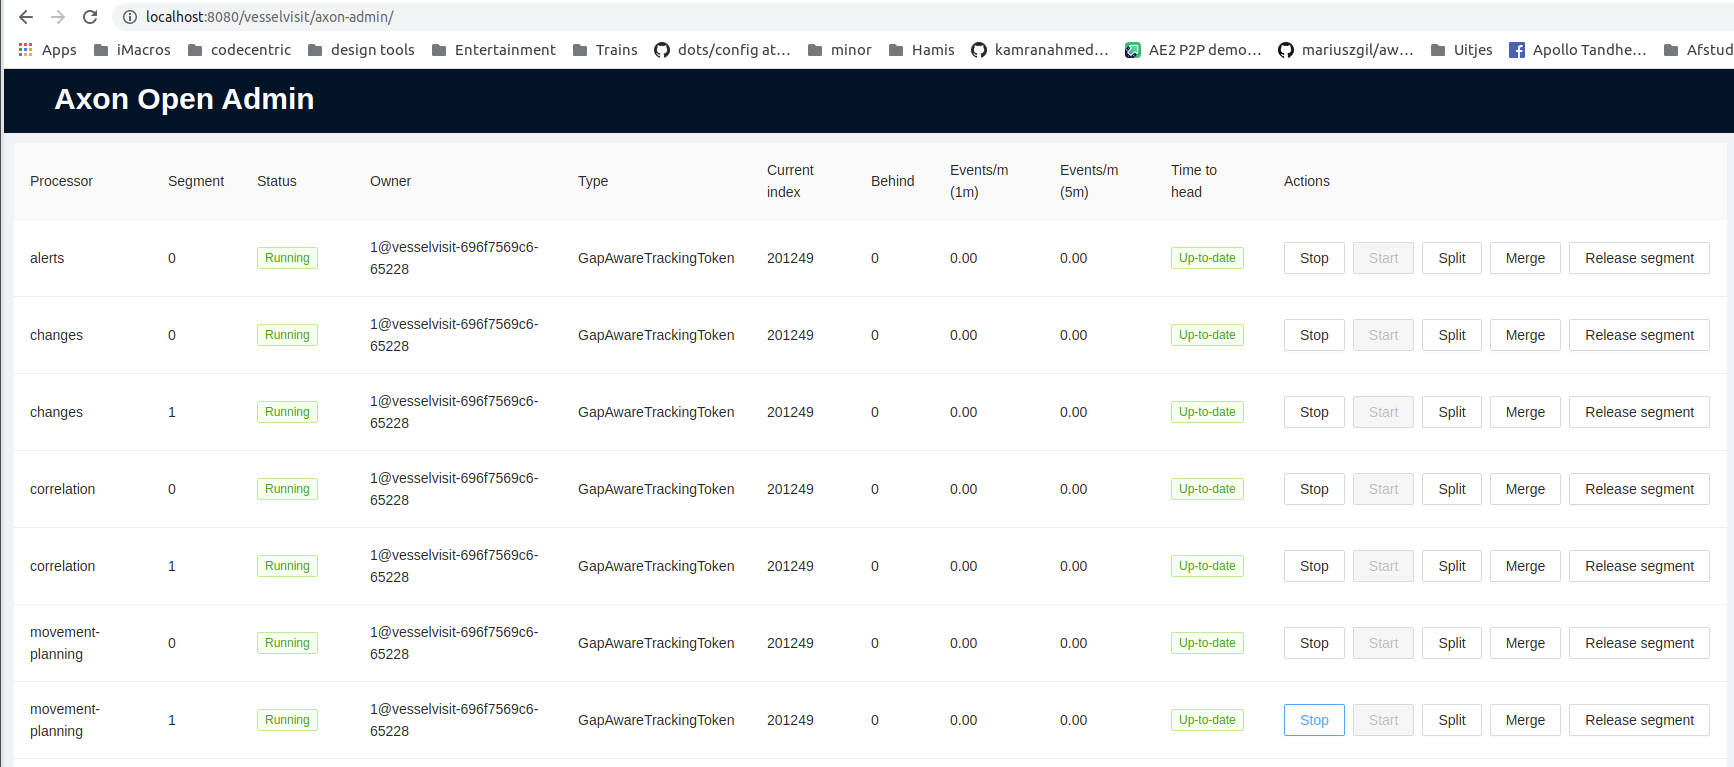
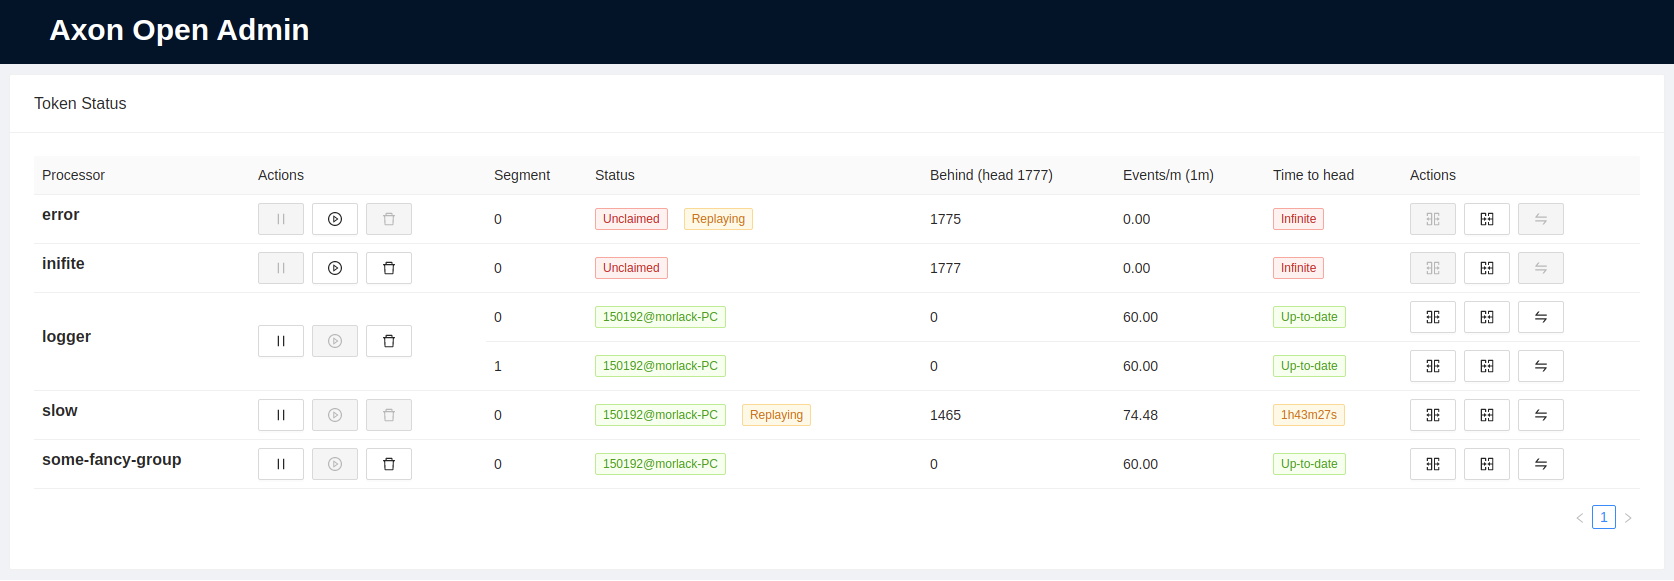
Renamed service module to starter, improved interface interaction

diff --git a/frontend/src/components/TokenOverview.tsx b/frontend/src/components/TokenOverview.tsx
@@ -1,0 +1,83 @@
+import {Card, Space, Table, Tag, Typography} from "antd";
+import React, {useEffect, useState} from "react";
+import {TimeToHeadTag} from "./TimeToHeadTag";
+import {ProcessorInformation} from "../models";
+import {TokenOverviewData} from "./TokenOverviewData";
+import {SegmentActions} from "./actions/SegmentActions";
+import {contextPath} from "../context";
+import {ProcessorActions} from "./actions/ProcesorActions";
+
+function mapProcessorInformationToDataSource(processorInformation: ProcessorInformation | null): TokenOverviewData[] | undefined {
+    return processorInformation?.processors?.flatMap(p => {
+        return p.segments.map((segment, index, all) => {
+            return {
+                key: p.name + segment.segment,
+                rowSpan: index === 0 ? all.length : 0,
+                processorName: p.name,
+                currentIndex: segment.currentIndex,
+                behind: segment.behind,
+                segment: segment.segment,
+                owner: segment.owner,
+                tokenType: segment.tokenType,
+                replaying: p.segments.filter(s => s.replaying).length > 0,
+                processorHasUnclaimed: p.segments.filter(s => !s.owner).length > 0,
+                secondsToHead: ((segment.statistics?.seconds300?.minutesToHead ?? 0) * 60).toFixed(2),
+                positionRate1m: segment.statistics?.seconds60?.positionRate?.toFixed(2),
+                positionRate5m: segment.statistics?.seconds10.positionRate?.toFixed(2),
+            }
+        })
+    });
+}
+
+function TokenOverview() {
+    const [processorInformation, setInfo] = useState(null as ProcessorInformation | null)
+
+    useEffect(() => {
+        const interval = setInterval(async () => {
+            const result = await fetch(contextPath + "/tokens")
+            if (result.ok) {
+                setInfo(await result.json())
+            } else {
+                console.log("Error!") // TODO
+            }
+        }, 1000)
+
+        return () => clearInterval(interval)
+    }, [])
+
+    const dataSource = mapProcessorInformationToDataSource(processorInformation);
+    console.log(dataSource)
+    return (
+        <Card title={"Token Status"}>
+            <Table loading={!processorInformation} dataSource={dataSource} pagination={{pageSize: 20}} size={"small"}>
+                <Table.Column title="Processor" key="processorName"
+                              render={row => ({children: <ProcessorTitle row={row}/>, props: {rowSpan: row.rowSpan}})}/>
+                <Table.Column title="Actions" key="processorActions" render={row => ({children: <ProcessorActions row={row}/>, props: {rowSpan: row.rowSpan}})}/>
+                <Table.Column title="Segment" key="segment" dataIndex="segment"/>
+                <Table.Column title="Status" key="status" render={row => <StatusRow row={row}/>}/>
+                <Table.Column title={"Behind (head " + processorInformation?.headIndex + ")"} key="behind" dataIndex="behind"/>
+                <Table.Column title="Events/m (1m)" key="positionRate1m" dataIndex="positionRate1m"/>
+                <Table.Column title="Time to head" key="timeToHead"
+                              render={row => <TimeToHeadTag behind={row.behind} secondsToHead={row.secondsToHead} replaying={row.replaying}/>}/>
+                <Table.Column title="Actions" key="actions"
+                              render={row => <SegmentActions row={row}/>}/>
+            </Table>
+        </Card>
+    );
+}
+
+function StatusRow({row}: {row: TokenOverviewData}) {
+    return <Space>
+        {row?.owner && <Tag color="green">{row.owner}</Tag>}
+        {!row?.owner && <Tag color="red">Unclaimed</Tag>}
+        {row?.replaying && <Tag color="orange" style={{float: 'right'}}>Replaying</Tag>}
+    </Space>
+}
+
+function ProcessorTitle({row} : {row: TokenOverviewData}) {
+    return <Space>
+        <Typography.Title level={5}>{row.processorName}</Typography.Title>
+    </Space>
+}
+
+export default TokenOverview;

diff --git a/frontend/src/components/actions/ReleaseAction.tsx b/frontend/src/components/actions/ReleaseAction.tsx
@@ -1,4 +1,4 @@
-import {ProcessorRowData} from "../ProcessorRowData";
+import {TokenOverviewData} from "../TokenOverviewData";
 import React, {useCallback, useState} from "react";
 import {Button, Popover} from "antd";
 import {contextPath} from "../../context";
@@ -15,7 +15,7 @@ async function releaseSegment(name: string, segment: number, attempt = 1) {
 }
 
 
-export function ReleaseAction({row}: { row: ProcessorRowData }) {
+export function ReleaseAction({row}: { row: TokenOverviewData }) {
     const [loading, setLoading] = useState(false)
 
     const onReleaseAction = useCallback(async () => {
@@ -24,10 +24,12 @@ export function ReleaseAction({row}: { row: ProcessorRowData }) {
         setLoading(false)
     }, [row.processorName, row.segment])
 
-    return <Popover content="Releases this segment on the running node so another node can pick it up" placement={"left"}><Button type="default" loading={loading}
-                                                                                                                                onClick={onReleaseAction}
-                                                                                                                                disabled={row.owner == null}>
-        <SwapOutlined />
-    </Button>
+    return <Popover content="Releases this segment on the running node so another node can pick it up"
+                    placement={"bottom"}>
+        <Button type="default" loading={loading}
+                onClick={onReleaseAction}
+                disabled={row.owner == null}>
+            <SwapOutlined/>
+        </Button>
     </Popover>
 }

diff --git a/frontend/src/components/actions/ReplayAction.tsx b/frontend/src/components/actions/ReplayAction.tsx
@@ -1,0 +1,38 @@
+import {TokenOverviewData} from "../TokenOverviewData";
+import React, {useCallback, useState} from "react";
+import {Button, Popconfirm, Popover} from "antd";
+import {contextPath} from "../../context";
+import {DeleteOutlined} from "@ant-design/icons";
+
+async function replayProcessor(name: string, attempt = 1) {
+    const result = await fetch(`${contextPath}/processor/${name}/reset`, {method: 'POST'})
+    if (!result.ok) {
+        if (attempt > 5) {
+            return;
+        }
+        await replayProcessor(name, attempt + 1)
+    }
+}
+
+
+export function ReplayAction({row}: { row: TokenOverviewData }) {
+    const [loading, setLoading] = useState(false)
+
+    const onStopAction = useCallback(async () => {
+        setLoading(true)
+        await replayProcessor(row.processorName, row.segment)
+        setLoading(false)
+    }, [row.processorName, row.segment])
+
+    return <Popover content={<p>Starts a replay of this processor. Will reset the tokens. First stop the processor on all nodes before taking this action</p>} placement={"bottom"}> <Popconfirm
+        title={`Are you sure you want to replay ${row.processorName}?`}
+        onConfirm={onStopAction}
+        onCancel={onStopAction}
+        okText="Yes"
+        cancelText="No"
+    ><Button type="default" loading={loading} disabled={row.owner != null || row.replaying}>
+        <DeleteOutlined/>
+    </Button>
+    </Popconfirm>
+    </Popover>
+}

diff --git a/frontend/src/components/actions/SplitAction.tsx b/frontend/src/components/actions/SplitAction.tsx
@@ -1,6 +1,6 @@
-import {ProcessorRowData} from "../ProcessorRowData";
+import {TokenOverviewData} from "../TokenOverviewData";
 import React, {useCallback, useState} from "react";
-import {Button} from "antd";
+import {Button, Popover} from "antd";
 import {contextPath} from "../../context";
 import {SplitCellsOutlined} from "@ant-design/icons";
 
@@ -15,7 +15,7 @@ async function splitProcessor(name: string, segment: number, attempt = 1) {
 }
 
 
-export function SplitAction({row}: { row: ProcessorRowData }) {
+export function SplitAction({row}: { row: TokenOverviewData }) {
     const [loading, setLoading] = useState(false)
 
     const onSplitAction = useCallback(async () => {
@@ -24,7 +24,10 @@ export function SplitAction({row}: { row: ProcessorRowData }) {
         setLoading(false)
     }, [row.processorName, row.segment])
 
-    return <Button type="default" loading={loading} onClick={onSplitAction} disabled={row.owner == null}>
+    return <Popover content={<p>Splits the token of this segment in two, increasing active threads of the processor by one. <br/>Warning: This action might fail when there are no threads available.</p>}
+                    placement={"bottom"}>
+        <Button type="default" loading={loading} onClick={onSplitAction} disabled={row.owner == null}>
         <SplitCellsOutlined />
     </Button>
+    </Popover>
 }

diff --git a/frontend/src/components/actions/MergeAction.tsx b/frontend/src/components/actions/MergeAction.tsx
@@ -1,6 +1,6 @@
-import {ProcessorRowData} from "../ProcessorRowData";
+import {TokenOverviewData} from "../TokenOverviewData";
 import React, {useCallback, useState} from "react";
-import {Button} from "antd";
+import {Button, Popover} from "antd";
 import {contextPath} from "../../context";
 import {MergeCellsOutlined} from "@ant-design/icons";
 
@@ -15,7 +15,7 @@ async function mergeProcessor(name: string, segment: number, attempt = 1) {
 }
 
 
-export function MergeAction({row}: { row: ProcessorRowData }) {
+export function MergeAction({row}: { row: TokenOverviewData }) {
     const [loading, setLoading] = useState(false)
 
     const onSplitAction = useCallback(async () => {
@@ -24,7 +24,10 @@ export function MergeAction({row}: { row: ProcessorRowData }) {
         setLoading(false)
     }, [row.processorName, row.segment])
 
-    return <Button type="default" loading={loading} onClick={onSplitAction}>
-        <MergeCellsOutlined />
-    </Button>
+    return <Popover content={<p>Merges the segment with its ancestor, creating one token out of two. <br/>Effectively reduces active event processor threads by one.</p>}
+                    placement={"bottom"}>
+        <Button type="default" loading={loading} onClick={onSplitAction}>
+            <MergeCellsOutlined/>
+        </Button>
+    </Popover>
 }

diff --git a/frontend/src/components/actions/StopAction.tsx b/frontend/src/components/actions/StopAction.tsx
@@ -1,6 +1,6 @@
-import {ProcessorRowData} from "../ProcessorRowData";
+import {TokenOverviewData} from "../TokenOverviewData";
 import React, {useCallback, useState} from "react";
-import {Button} from "antd";
+import {Button, Popover} from "antd";
 import {contextPath} from "../../context";
 import {PauseOutlined} from "@ant-design/icons";
 
@@ -15,7 +15,7 @@ async function stopProcessor(name: string, attempt = 1) {
 }
 
 
-export function StopAction({row}: { row: ProcessorRowData }) {
+export function StopAction({row}: { row: TokenOverviewData }) {
     const [loading, setLoading] = useState(false)
 
     const onStopAction = useCallback(async () => {
@@ -24,7 +24,9 @@ export function StopAction({row}: { row: ProcessorRowData }) {
         setLoading(false)
     }, [row.processorName, row.segment])
 
-    return <Button type="default" loading={loading} onClick={onStopAction} disabled={row.owner == null}>
-        <PauseOutlined />
-    </Button>
+    return <Popover content={<p>Pauses the processor. Might need multiple tries if multiple nodes have the processor.</p>} placement={"bottom"}>
+        <Button type="default" loading={loading} onClick={onStopAction} disabled={row.owner == null}>
+            <PauseOutlined/>
+        </Button>
+    </Popover>
 }

diff --git a/frontend/src/components/actions/StartAction.tsx b/frontend/src/components/actions/StartAction.tsx
@@ -1,6 +1,6 @@
-import {ProcessorRowData} from "../ProcessorRowData";
+import {TokenOverviewData} from "../TokenOverviewData";
 import React, {useCallback, useState} from "react";
-import {Button} from "antd";
+import {Button, Popover} from "antd";
 import {contextPath} from "../../context";
 import {PlayCircleOutlined} from "@ant-design/icons";
 
@@ -15,7 +15,7 @@ async function startProcessor(name: string, attempt = 1) {
 }
 
 
-export function StartAction({row}: { row: ProcessorRowData }) {
+export function StartAction({row}: { row: TokenOverviewData }) {
     const [loading, setLoading] = useState(false)
 
     const onStartAction = useCallback(async () => {
@@ -24,7 +24,10 @@ export function StartAction({row}: { row: ProcessorRowData }) {
         setLoading(false)
     }, [row.processorName])
 
-    return <Button type="default" loading={loading} onClick={onStartAction} disabled={row.owner != null}>
-        <PlayCircleOutlined />
-    </Button>
+    return <Popover content={<p>Starts the processor.</p>}
+                    placement={"bottom"}>
+        <Button type="default" loading={loading} onClick={onStartAction} disabled={!row.processorHasUnclaimed}>
+            <PlayCircleOutlined/>
+        </Button>
+    </Popover>
 }

diff --git a/starter/src/main/java/com/insidion/axon/openadmin/OpenAdminFrontendController.kt b/starter/src/main/java/com/insidion/axon/openadmin/OpenAdminFrontendController.kt
@@ -1,9 +1,9 @@
 package com.insidion.axon.openadmin
 
-import org.apache.commons.io.FileUtils
 import org.springframework.beans.factory.annotation.Value
-import org.springframework.core.io.ClassPathResource
 import org.springframework.stereotype.Controller
+import org.springframework.util.ResourceUtils
+import org.springframework.util.StreamUtils
 import org.springframework.web.bind.annotation.GetMapping
 import org.springframework.web.bind.annotation.RequestMapping
 import org.springframework.web.bind.annotation.ResponseBody
@@ -20,8 +20,8 @@ class OpenAdminFrontendController(
     @GetMapping("/", produces = ["text/html"])
     @ResponseBody
     fun serveFrontend(): String {
-        val stream = ClassPathResource("/static/axon-admin/index.html")
-        return FileUtils.readFileToString(stream.file, Charset.defaultCharset())
+        val stream = ResourceUtils.getURL("classpath:static/axon-admin/index.html").openStream()
+        return StreamUtils.copyToString(stream, Charset.defaultCharset())
             .replace("/static/css", "$contextPath/$axonAdminPath/static/css")
             .replace("/static/js", "$contextPath/$axonAdminPath/static/js")
 

diff --git a/frontend/src/components/actions/SegmentActions.tsx b/frontend/src/components/actions/SegmentActions.tsx
@@ -1,13 +1,11 @@
-import {ProcessorRowData} from "../ProcessorRowData";
+import {TokenOverviewData} from "../TokenOverviewData";
 import React from "react";
-import {StopAction} from "./StopAction";
-import {StartAction} from "./StartAction";
 import {Space} from "antd";
 import {SplitAction} from "./SplitAction";
 import {MergeAction} from "./MergeAction";
 import {ReleaseAction} from "./ReleaseAction";
 
-export function ActionBar({row}: {row: ProcessorRowData}) {
+export function SegmentActions({row}: {row: TokenOverviewData}) {
     return <Space>
         <SplitAction row={row}/>
         <MergeAction row={row}/>

diff --git a/frontend/src/App.tsx b/frontend/src/App.tsx
@@ -3,7 +3,7 @@ import 'antd/dist/antd.css';
 
 import 'react-toastify/dist/ReactToastify.css';
 import {Layout, Typography} from "antd";
-import Processors from "./components/Processors";
+import TokenOverview from "./components/TokenOverview";
 
 
 function App() {
@@ -13,7 +13,7 @@ function App() {
                 <Typography.Title className="logo" level={2}>Axon Open Admin</Typography.Title>
             </Layout.Header>
             <Layout.Content style={{padding: '10px'}}>
-                <Processors/>
+                <TokenOverview/>
             </Layout.Content>
         </Layout>
     );

diff --git a/frontend/src/components/actions/ProcesorActions.tsx b/frontend/src/components/actions/ProcesorActions.tsx
@@ -1,0 +1,14 @@
+import {TokenOverviewData} from "../TokenOverviewData";
+import React from "react";
+import {StopAction} from "./StopAction";
+import {StartAction} from "./StartAction";
+import {Space} from "antd";
+import {ReplayAction} from "./ReplayAction";
+
+export function ProcessorActions({row}: {row: TokenOverviewData}) {
+    return <Space>
+        <StopAction row={row}/>
+        <StartAction row={row}/>
+        <ReplayAction row={row}/>
+    </Space>
+}

diff --git a/frontend/src/components/TimeToHeadTag.tsx b/frontend/src/components/TimeToHeadTag.tsx
@@ -10,7 +10,7 @@ export function TimeToHeadTag({behind, secondsToHead, replaying}: { behind: numb
     }
     const hours = Math.floor(secondsToHead / 3600)
     const minutes = Math.floor((secondsToHead - hours * 3600) / 60)
-    const seconds = secondsToHead % 60
+    const seconds = Math.floor(secondsToHead % 60)
     const color = replaying || secondsToHead < 120 ? 'orange' : 'red';
     if(hours > 48) {
         return <Tag color={color}>Infinite</Tag>
